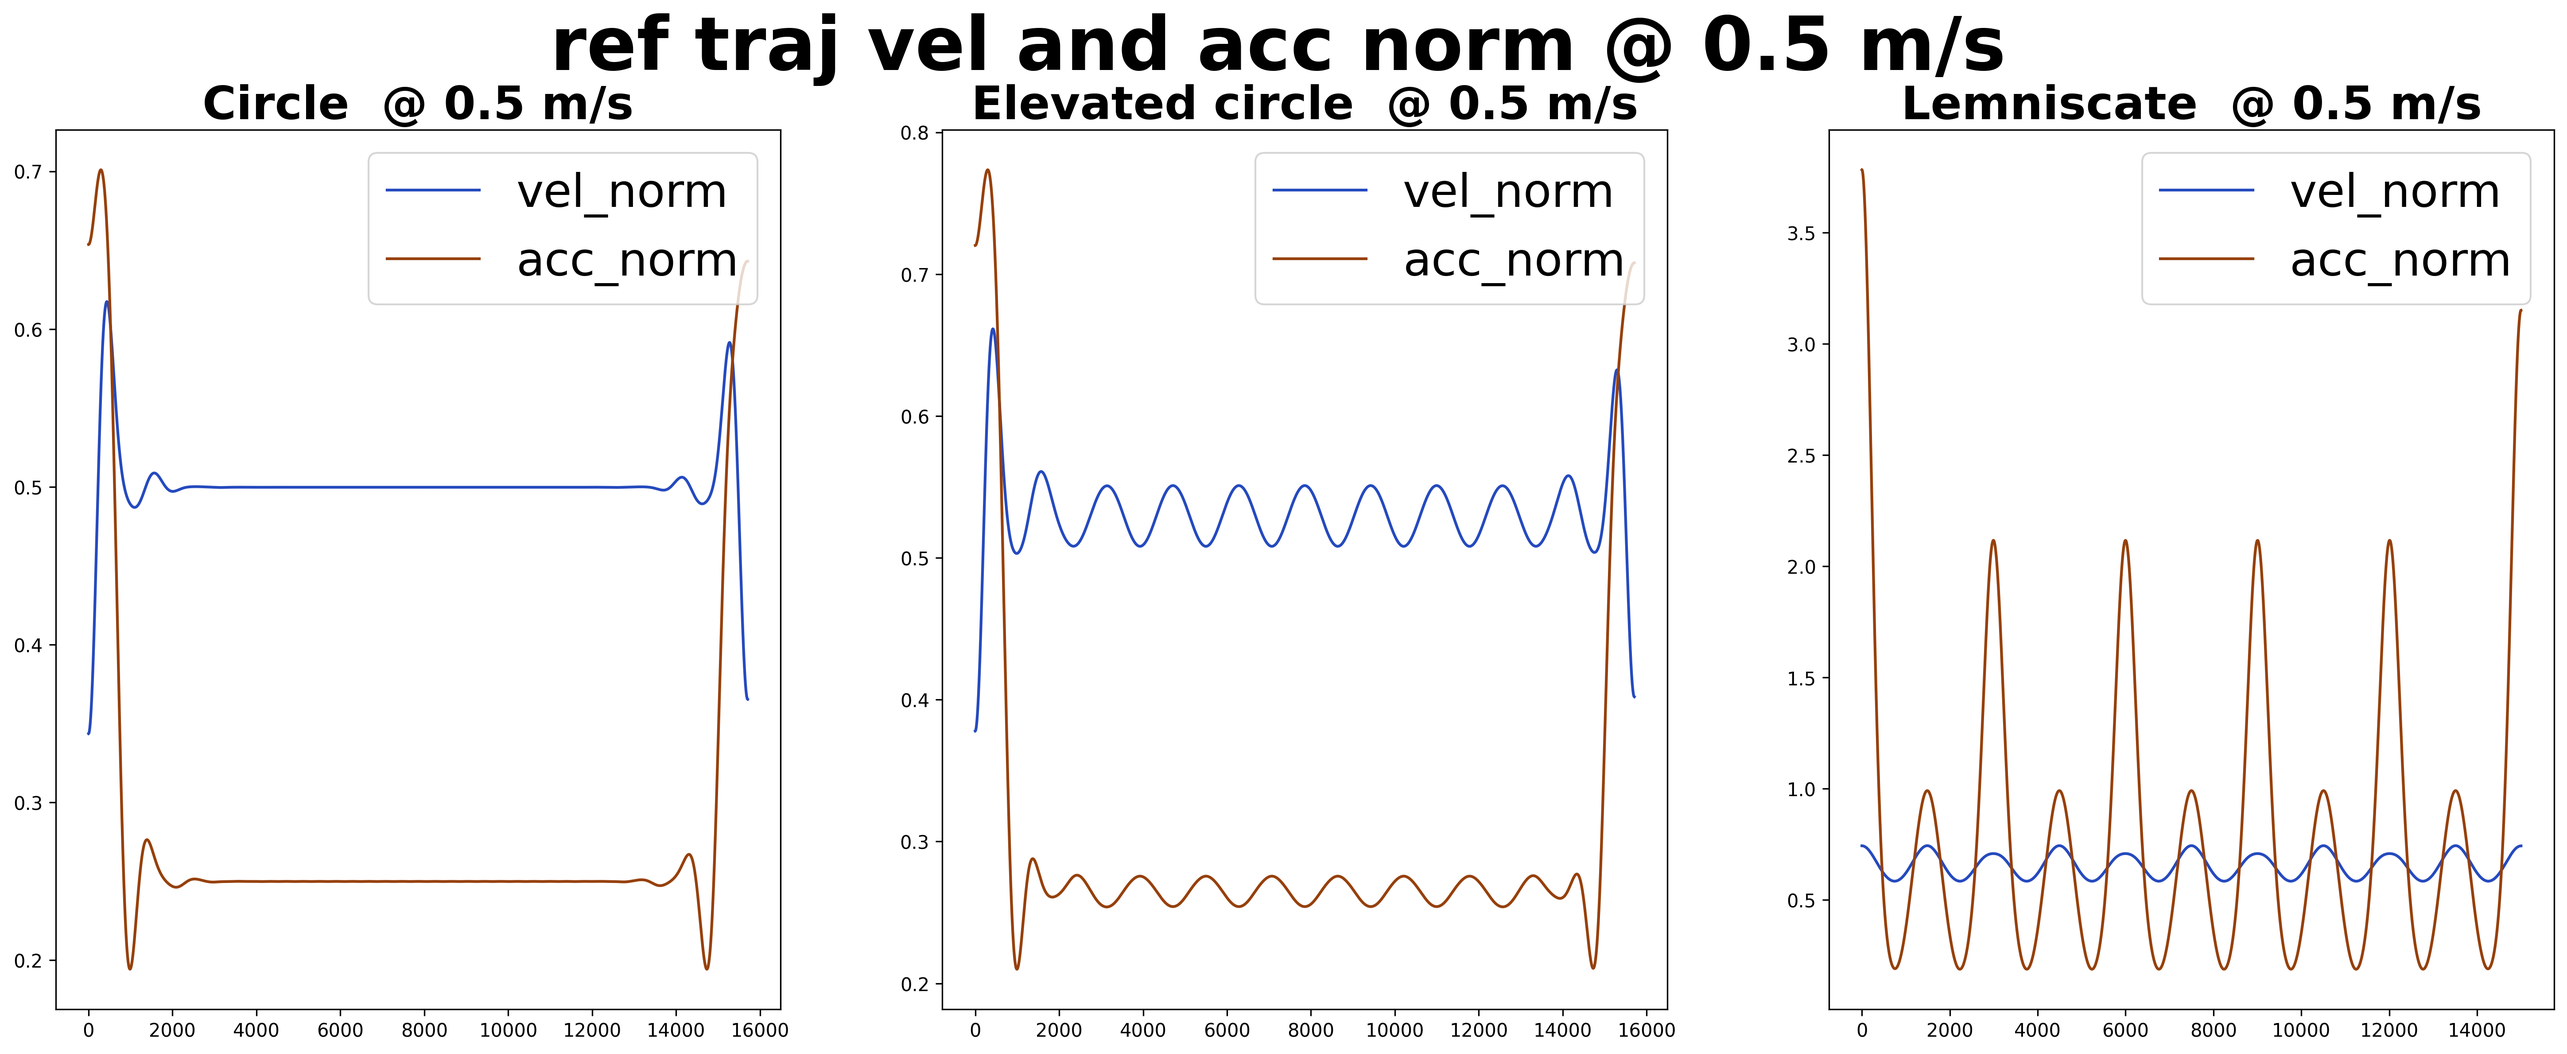
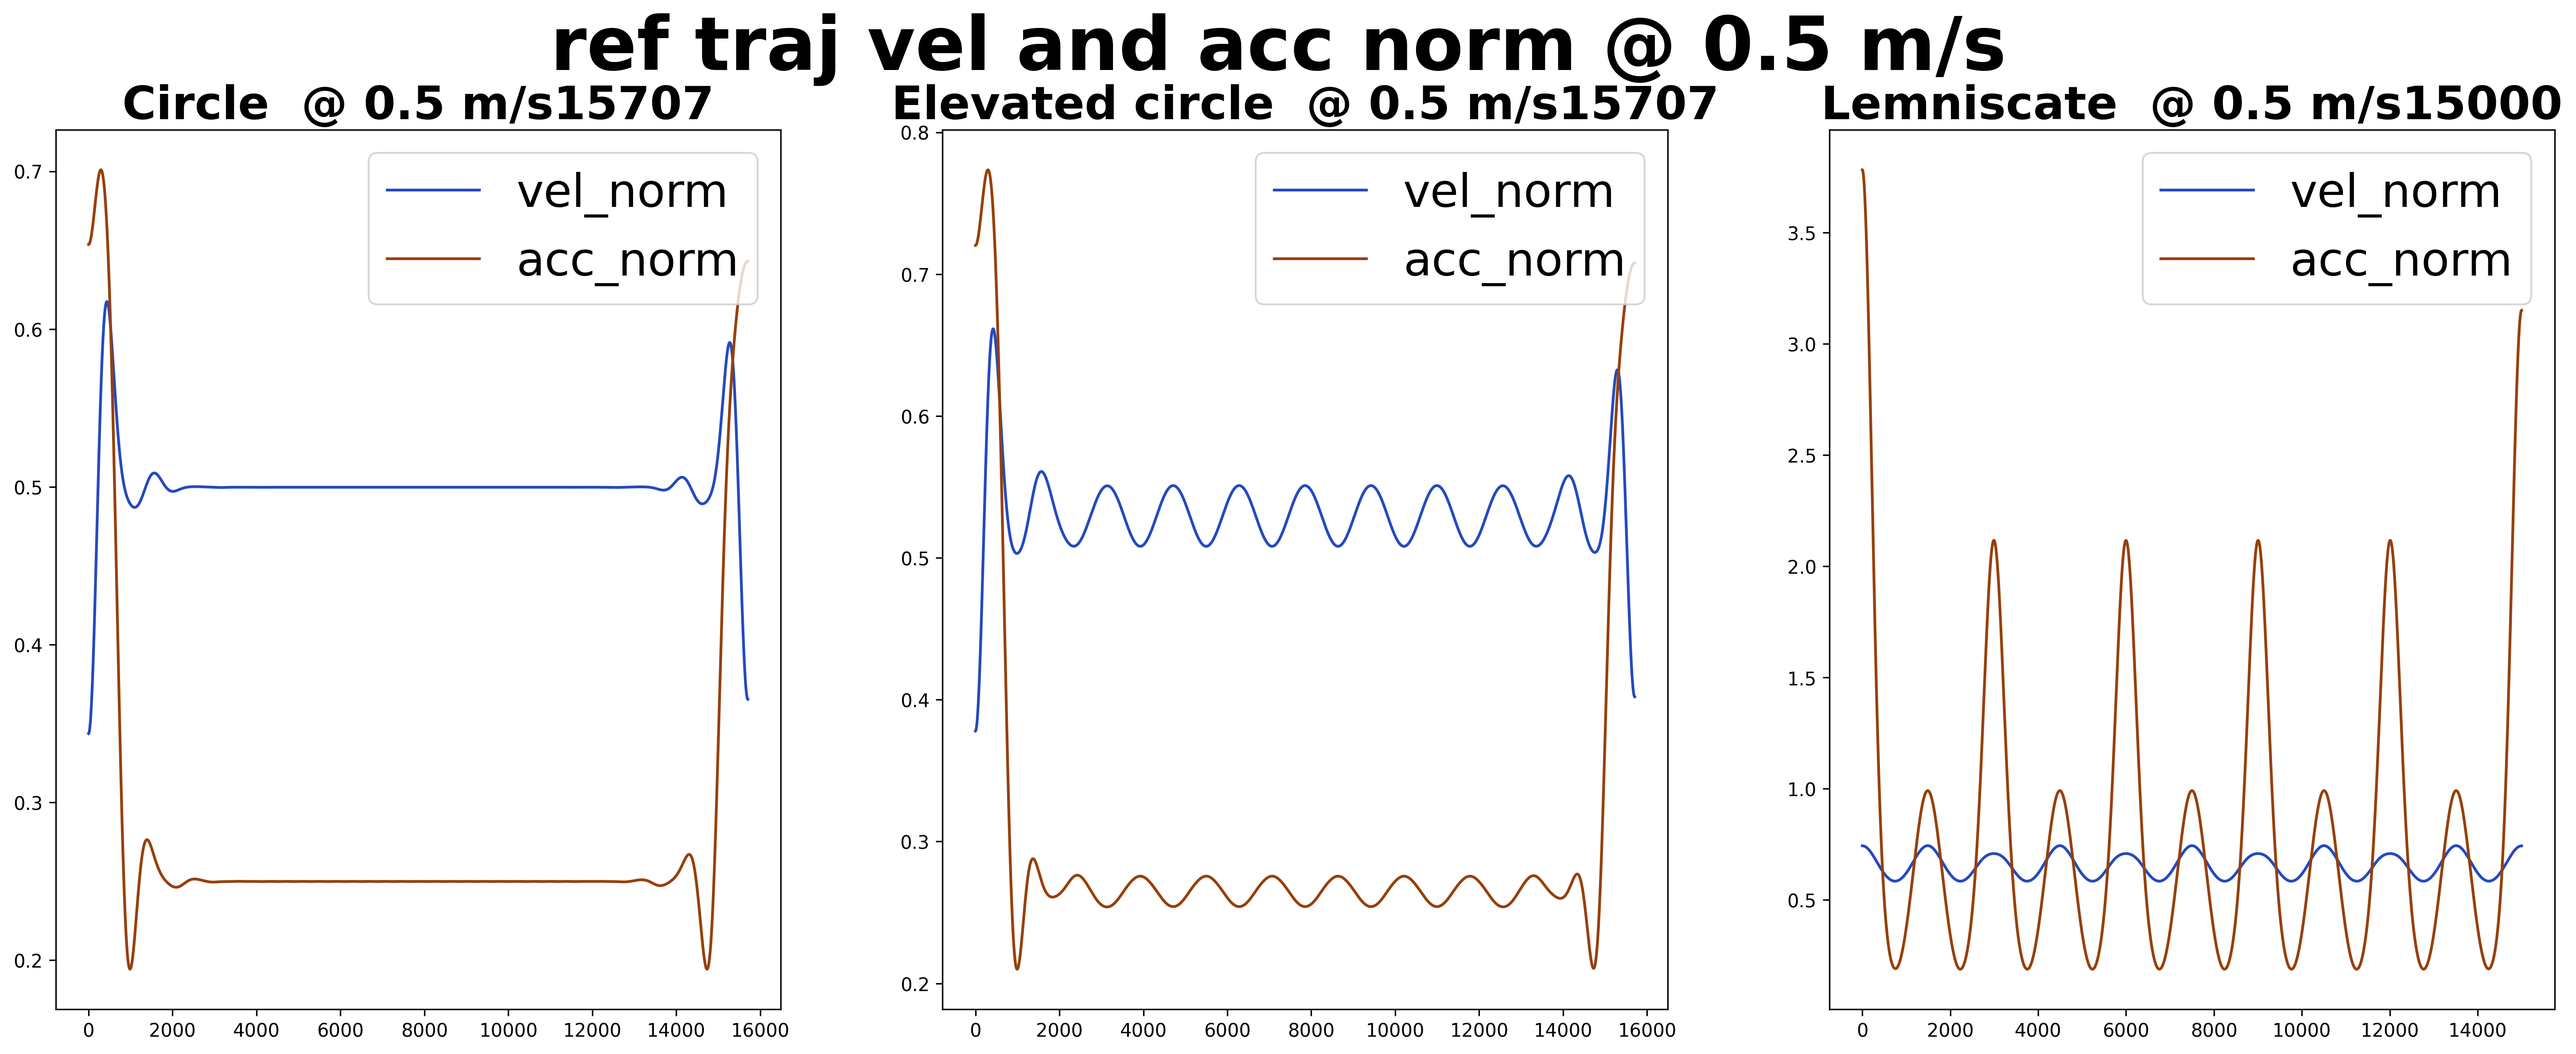
updated w points

diff --git a/paper_plots/3D_graphs_plotter.py b/paper_plots/3D_graphs_plotter.py
@@ -36,8 +36,8 @@ for i in range(1):
         graphs[i][j] = ax
 
 colors = ['#254abe','#96400b','#254abe','#96400b']
-fig.subplots_adjust(hspace=0.3, wspace=0.05, 
-                    left=0.0, right=0.98, 
+fig.subplots_adjust(hspace=0.3, wspace=0.19, 
+                    left=0.0, right=0.94, 
                     top =1.0, bottom =0.043)
 #fig.suptitle(title, fontsize=40, fontweight='bold')
 
@@ -76,11 +76,13 @@ for a in range(len(graphs[0])): # 3D plot for trajs
     graphs[0][a].set_ylabel('Yw [m]', fontsize=20)
     graphs[0][a].set_zlabel('Zw [m]', fontsize=20)
     # legend        
-    graphs[0][a].legend(loc='upper right', fontsize=25)
+    graphs[0][a].legend(loc='upper right', fontsize=30)
     # add title
-    graphs[0][a].set_title(traj_label, fontsize=25, fontweight='bold')
-    graphs[0][a].tick_params(axis='both', labelsize=10)
-        
+    graphs[0][a].set_title(traj_label, fontsize=35, fontweight='bold')
+    graphs[0][a].tick_params(axis='both', labelsize=20)
+    graphs[0][a].tick_params(axis='x', pad=30)
+    graphs[0][a].tick_params(axis='y', pad=30)
+    graphs[0][a].tick_params(axis='z', pad=33)    
 
 
 

diff --git a/paper_plots/ref_vel_acc_plot.py b/paper_plots/ref_vel_acc_plot.py
@@ -84,6 +84,7 @@ if __name__ == "__main__":
             jerk_norm.append(compute_l2_norm(jerk_x[i], jerk_y[i], jerk_z[i]))
             snap_norm.append(compute_l2_norm(snap_x[i], snap_y[i], snap_z[i]))
 
+        # print (traj_label + 'pos_norm', len(pos_norm))
         # smooth the data - gaussian filter inflates the data, not good for errors (median filter still better)
         vel_norm = ndimage.gaussian_filter1d(vel_norm, 200)
         acc_norm = ndimage.gaussian_filter1d(acc_norm, 200)
@@ -98,7 +99,8 @@ if __name__ == "__main__":
 
         graphs[0][a].legend(loc='upper right', fontsize=25)
         # add title
-        graphs[0][a].set_title(traj_label + ' @ 0.5 m/s', fontsize=25, fontweight='bold')
+        length = str(len(pos_norm))
+        graphs[0][a].set_title(traj_label + ' @ 0.5 m/s' + length, fontsize=25, fontweight='bold')
         graphs[0][a].tick_params(axis='both', labelsize=10)     
     
 

diff --git a/paper_plots/reduced_boxplot_plotter.py b/paper_plots/reduced_boxplot_plotter.py
@@ -14,7 +14,7 @@ long_wing = 'long_traj_data'
 short_wing = 'short_traj_data'
 foam_wing = 'foam_traj_data'
 
-selected_wing = short_wing
+selected_wing = long_wing
 
 if selected_wing == short_wing:
     title = 'Controller tracking performance using short-wing'
@@ -61,11 +61,11 @@ for a in range(len(graphs)): # 3 trajs
 
         for i in range(3): #xyz
             if i == 0:
-                label = 'Xw (m)'
+                label = '∥Px∥ (m)'
             elif i == 1:
-                label = 'Yw (m)'
+                label = '∥Py∥ (m)'
             elif i == 2:
-                label = 'Zw (m)'
+                label = '∥Pz∥ (m)'
             method = graphs[a][m-3].boxplot(wing[a][m][6+i],
                                 #patch_artist = True,
                                 boxprops={'color':colors[m]},

diff --git a/paper_plots/att_graphs_plotter.py b/paper_plots/att_graphs_plotter.py
@@ -44,15 +44,15 @@ fig.subplots_adjust(hspace=0.248, wspace=0.118,
 
 for t in range(3): # trajectories
     if t == 0:
-        traj_label = 'Cir '
+        traj_label = 'Circle '
     elif t == 1:
-        traj_label = 'Ele '
+        traj_label = 'Elevated Circle '
     elif t == 2:
-        traj_label = 'Lem '   
+        traj_label = 'Lemniscate '   
 
     for a in range(2): # 2 graphs per traj
         if a == 0:
-            att_label = 'Angular acceleration L2 norm error (rad/s^2)'   
+            att_label = '∥¨ωDE∥ (rad/s^2)'   
         elif a == 1:
             att_label = 'Body rotational rate (hz)'  
 

diff --git a/paper_plots/Reduced_foam_boxplot_plotter.py b/paper_plots/Reduced_foam_boxplot_plotter.py
@@ -49,11 +49,11 @@ for a in range(len(graphs)): # 3 trajs
 
         for i in range(3): #xyz
             if i == 0:
-                label = 'Xw (m)'
+                label = '∥Px∥ (m)'
             elif i == 1:
-                label = 'Yw (m)'
+                label = '∥Py∥ (m)'
             elif i == 2:
-                label = 'Zw (m)'
+                label = '∥Pz∥ (m)'
             method = graphs[a][m].boxplot(wing[a][m][6+i],
                                 #patch_artist = True,
                                 boxprops={'color':colors[m]},
